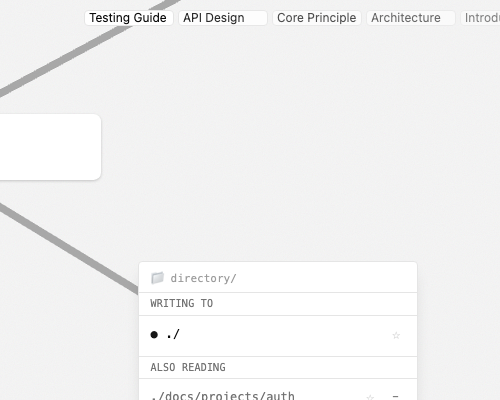
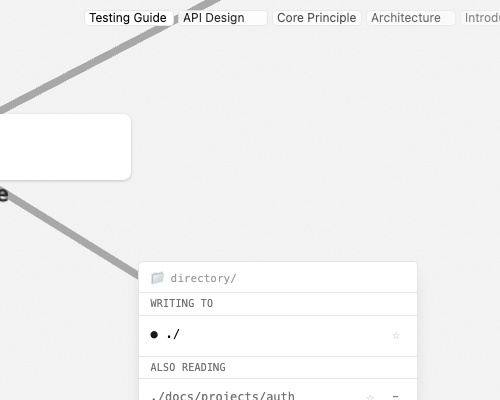
Update e2e test screenshots and workflow metadata positions

Changed region(s): [[0.0, 0.06, 0.33, 0.3], [0.0, 0.45, 0.3, 0.75], [0.3, 0.0, 0.45, 0.06]]

diff --git a/meta/workflows/fix_test_failures.md b/meta/workflows/fix_test_failures.md
@@ -1,7 +1,7 @@
 ---
 position:
-  x: -9462
-  y: -2472
+  x: 21226
+  y: -3192
 isContextNode: false
 ---
 1. Out of the categories think hard, how could you best divide these into up to 7 different groupings to send to subagents?

diff --git a/meta/workflows/categorize_test_faliures.md b/meta/workflows/categorize_test_faliures.md
@@ -1,7 +1,7 @@
 ---
 position:
-  x: -9824
-  y: -2472
+  x: 21588
+  y: -3188
 isContextNode: false
 ---
 TASK 1
